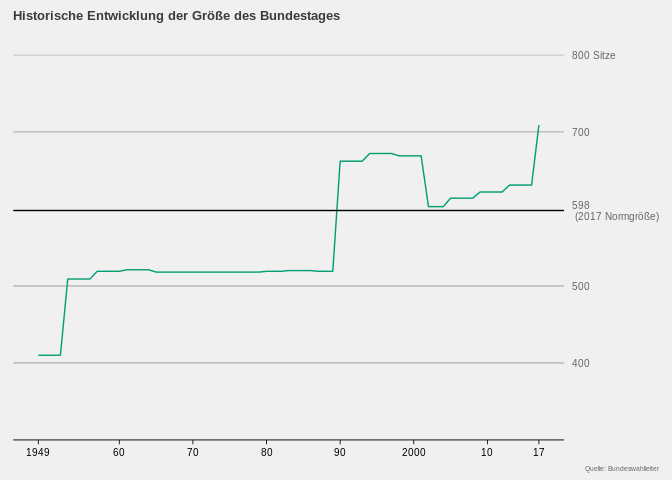
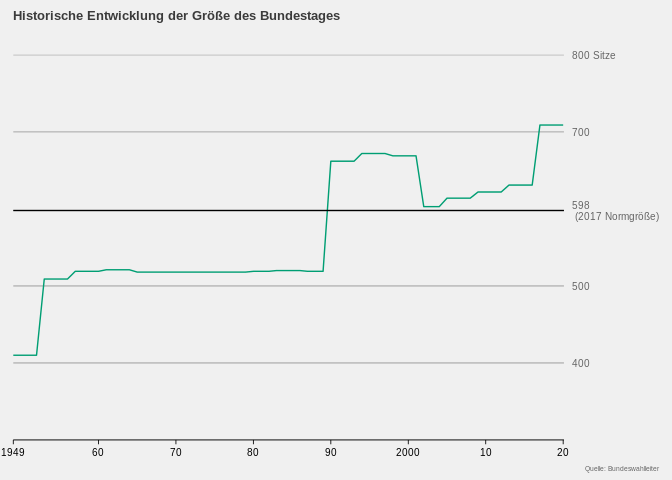
added distribution and did some clean up

diff --git a/README.md b/README.md
@@ -135,35 +135,24 @@ Historic_Parliament_Size <- full_join(Historic_Parliament_Size,table)
 ## Historic Size Bundestag Graph
 
 ``` r
-# as the data frame contains every Ueberhangmandat per party, I only need one observation per year
-library(lubridate)
-```
+# as the data frame contains every Ueberhangmandat per party, 
+# I only need one observation per year. However, the remaining years also need
+# to have numbers to achieve abrupt changes in the graph. Hence, the fill
+# commands.
 
-    ## 
-    ## Attaching package: 'lubridate'
-
-    ## The following objects are masked from 'package:rgeos':
-    ## 
-    ##     intersect, setdiff, union
-
-    ## The following objects are masked from 'package:base':
-    ## 
-    ##     date, intersect, setdiff, union
-
-``` r
 graph_historic_size <- data.frame("Jahr"=1949:2020, stringsAsFactors = FALSE)
 
 graph_historic_size <- Historic_Parliament_Size %>%
   distinct(`Jahr`, .keep_all = TRUE) %>%
   select(c(`Jahr`,`Mandates`)) %>%
-  left_join(graph_historic_size,.)
+  left_join(graph_historic_size,.) %>%
+  fill(`Mandates`)
 ```
 
     ## Joining, by = "Jahr"
 
 ``` r
 graph_historic_size %>%
-  fill(`Mandates`) %>%
   ggplot(aes(x=`Jahr`, y=`Mandates`,group=1)) +
   geom_line(aes(group=1), color="#009E73") +
   geom_hline(aes(yintercept=598)) +
@@ -174,11 +163,12 @@ graph_historic_size %>%
                     labels=c("300" = "", "400"="400", "500"="500", 
                                 "598"="598 \n (2017 Normgröße)","700"= "700",
                                 "800"="800 Sitze")) +
-    scale_x_continuous(breaks = sort(c(seq(1960, 2010, by = 10),1949,2017)),
-                       limits=c(1949,2017), 
+    scale_x_continuous(breaks = sort(c(seq(1960, 2020, by = 10),1949)),
+                       limits=c(1949,2020.1), 
                        labels=c("1949"="1949","1960"="60","1970"="70",
                                 "1980"="80","1990"="90","2000"="2000",
-                                "2010"="10", "2017"="17")) +
+                                "2010"="10", "2020"="20"),
+                        expand = c(0, 0)) +
     labs(title = "Historische Entwicklung der Größe des Bundestages", 
          subtitle="",caption = "Quelle: Bundeswahlleiter") +
     hp_theme() + 
@@ -196,22 +186,11 @@ graph_historic_size %>%
           axis.text.x= element_text(color="black"))
 ```
 
-    ## Warning: Removed 3 row(s) containing missing values (geom_path).
-
 ![](README_figs/Historic_Parliament_Size_graph-1.png)<!-- -->
-
-``` 
-   mutate(Jahr = as.Date(as.character(Jahr), format = "%Y")) %>%
-```
-
-mutate(Jahr = year(Jahr)) %\>% complete(Jahr = seq.Date(min(Jahr),
-max(Jahr), by=“day”))
 
 ``` r
 ggsave("./HP_pic/Historic_Parliament_Size_graph.jpg",width=4, height=3)
 ```
-
-    ## Warning: Removed 3 row(s) containing missing values (geom_path).
 
 ## Overview of Überhangmandaten for Parties
 
@@ -434,6 +413,43 @@ ggplot(data=map_actual_election,
 ```
 
 ![](README_figs/map_actual_election-1.png)<!-- -->
+
+## Distribution of size of counties by Erststimmen cast
+
+``` r
+cleaned %>%
+  select(`Gültige Erststimmen`)  %>%
+  ggplot(aes(x=`Gültige Erststimmen`)) + 
+    geom_bar(color="#009E73", fill="#009E73") +
+    scale_x_binned(breaks = c(110000, 120000, 130000, 140000, 150000, 160000, 
+                            170000, 180000, 190000),
+                   labels = c("110000"="110","120000"="120","130000"="130",
+                            "140000"="140","150000"="150","160000"="160",
+                            "170000"="170","180000"="180","190000"="190.000")) +
+    scale_y_continuous(position = "right", 
+                       expand = c(0, 0),
+                       limits = c(0, 60.1),
+                       breaks = c(20,40,60),
+                       labels = c("20"="20","40"="40","60" = "60 Wahlkreise")) +
+    labs(title = "Größe der Wahlkreise", 
+         subtitle="nach abgegebenen gültigen Erststimmen",
+         caption = "Quelle: Bundeswahlleiter") +
+    hp_theme() + 
+    theme(axis.text= element_text(size= 7.5), 
+          axis.title.x = element_blank(), 
+          plot.title.position = "plot",  
+          axis.title.y = element_blank(), 
+          panel.grid.major.x = element_blank(), 
+          panel.grid.major.y = element_line(size= .2, color="#656565"), 
+          axis.line.x= element_line(size= .3, color="black"),
+          legend.position = "right", legend.key = element_blank(), 
+          axis.ticks.y = element_blank(), 
+          axis.ticks.x = element_line( size=.3, color="black"),
+          plot.caption= element_text(size=5,hjust = 1), 
+          axis.text.x= element_text(color="black"))
+```
+
+![](README_figs/graph_vote_distribution-1.png)<!-- -->
 
 # State Data Frames
 
@@ -742,9 +758,7 @@ for (state in 1:16) {
   assign(paste0(counties_state[state]), loop_state,)
 
 # cleanup
-  rm(loop_state,state,x,y,max)    
-
-}
+  rm(loop_state,state,x,y,max)}
 ```
 
 # Actual Optimization
@@ -986,9 +1000,8 @@ graph_margins <- rbind(graph_margins,margins_placeholder)
 # merge with data frame for analysis
  counties <- rbind(counties,clean_up)
 # cleanup
-  rm(loop_state,state,margins_placeholder,clean_up,ueberhang_placerholder,state)  
-
-}
+  rm(loop_state,state,margins_placeholder,clean_up,
+     ueberhang_placerholder,state) }
 ```
 
 # Drop not needed data frames and values:
@@ -1323,6 +1336,9 @@ rm(zweitstimmen)
     mutate(selected_divisor=replace(selected_divisor,
                                     selected_divisor>max_divisor,
                                     round_to_next_ten(min_divisor))) %>%
+    mutate(selected_divisor=replace(selected_divisor,
+                                    selected_divisor>max_divisor,
+                                    ceiling(min_divisor))) %>%
     mutate(seats_party=round(zweitstimmen/selected_divisor)) %>%
     mutate(final_size=sum(seats_party))
   
@@ -1455,26 +1471,31 @@ rm(row,party_subtract)}
 
 
 # add original result and drop not needed variable rank
+# values can be look up in acutal_election data frame
   ueberhangmandate <- ueberhangmandate %>% 
                             add_row(votes_needed = 0,
                                     votes_halved = 0,
-                                    cummulative_votes=0,
-                                    min_size=709,
-                                    max_size=709,
-                                    final_size=709) %>%
+                                    cummulative_votes = 0,
+                                    min_size = 709,
+                                    max_size = 709,
+                                    final_size = 709,
+                                    max_divisor = 62394.27,
+                                    min_divisor = 62202.28) %>%
                             replace(is.na(.), "Election") %>%
                             arrange(cummulative_votes) %>%
                             select(-c(rank))
-  
-# just the changes
-  changes <- ueberhangmandate %>% distinct(final_size, .keep_all = TRUE)
 ```
 
 ## Dynamic Size Bundestag Graph
 
 ``` r
 # calculations for the percent of votes
-#sum(cleaned$`Gültige Erststimmen`)
+sum(cleaned$`Gültige Erststimmen`)
+```
+
+    ## [1] 46389615
+
+``` r
 #60000/46389615
 #(60000*2)/46389615
 #(60000*3)/46389615
@@ -1535,8 +1556,6 @@ graph_dynamic_size %>%
 
 ### Margin by Party
 
-<https://uc-r.github.io/t_testhttps://uc-r.github.io/t_test>
-
 ``` r
 ueberhangmandate %>%
   filter(Wahlkreisname != "Election") %>%
@@ -1579,16 +1598,6 @@ ueberhangmandate %>%
 
 ``` r
 library(rstatix)
-```
-
-    ## 
-    ## Attaching package: 'rstatix'
-
-    ## The following object is masked from 'package:stats':
-    ## 
-    ##     filter
-
-``` r
 ueberhangmandate %>%
   filter(Wahlkreisname != "Election") %>%
   select(mandate_actual, votes_needed) %>%
